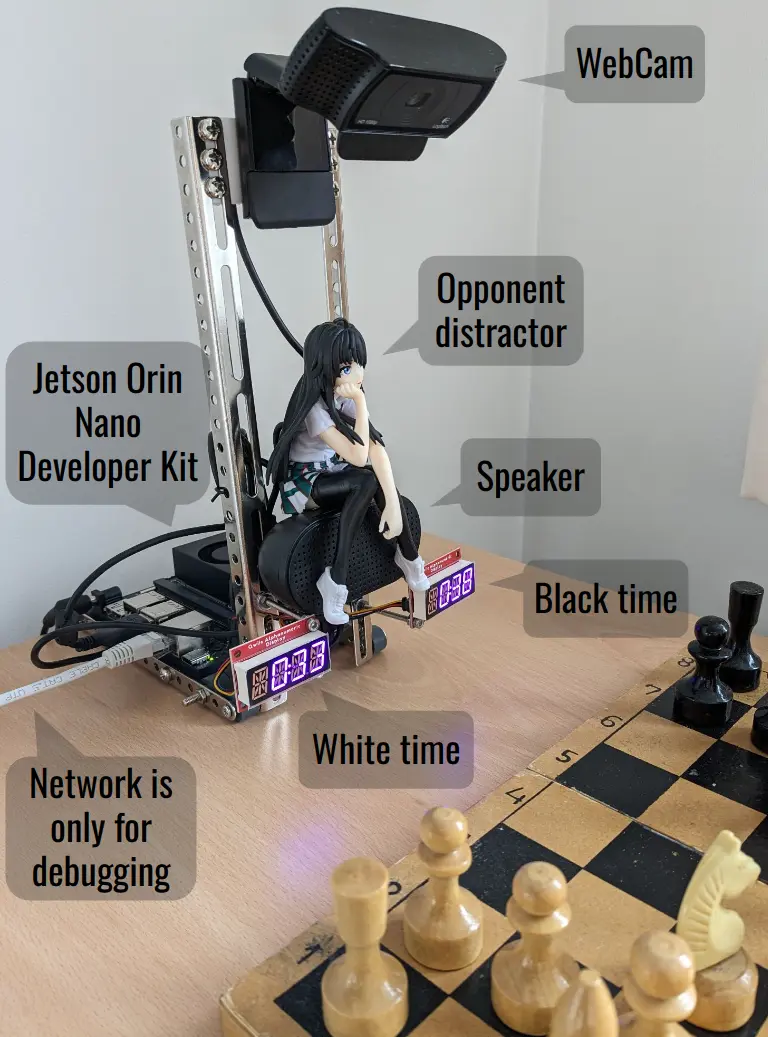
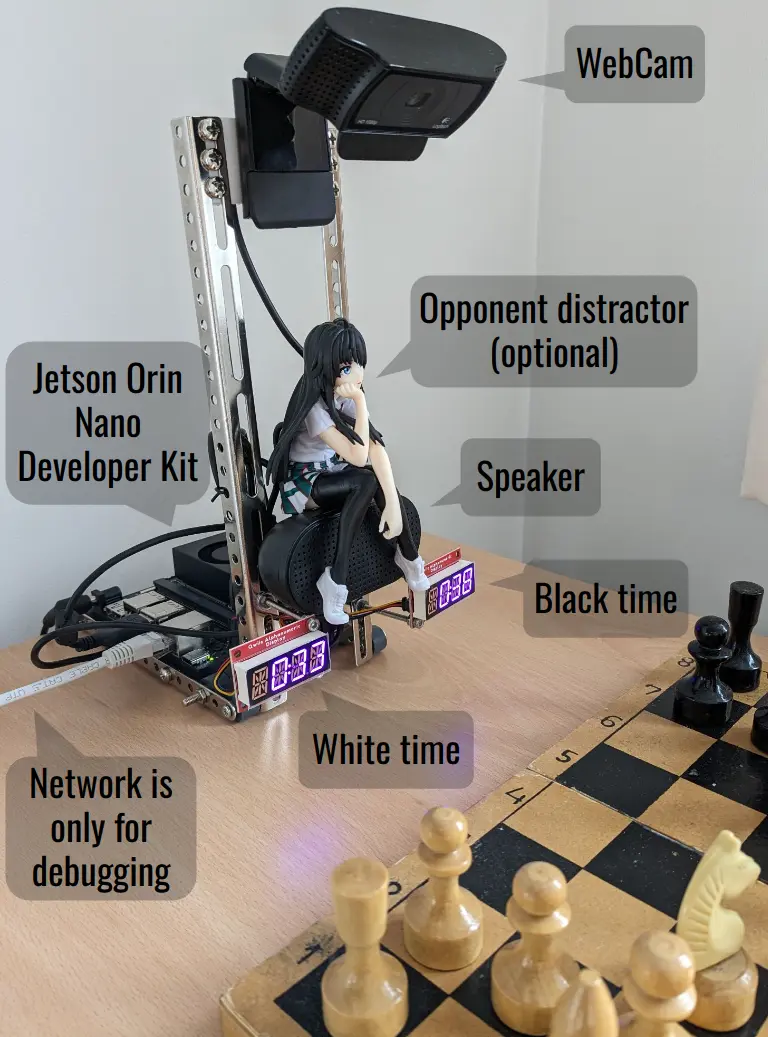
docs: list components

Changed region(s): [[0.5, 0.2469, 0.9062, 0.3703]]

diff --git a/README.md b/README.md
@@ -11,7 +11,14 @@ running by watching a game using the camera.
 
 ![Hands Free Chess Clock](clock.webp)
 
-Main components used to build clock are listed in [AI Innovation Challenge](https://www.hackster.io/contests/SparkFun-NVIDIA-AI-Innovation-Challenge) contest page.
+Components:
+* [NVIDIA Jetson Orin Nano Developer Kit](https://marketplace.nvidia.com/en-us/robotics-edge/)
+* [SparkFun Qwiic Alphanumeric Display - Purple](https://www.sparkfun.com/products/16918)
+* [SparkFun Qwiic Cable - 100mm](https://www.sparkfun.com/products/14427)
+* [Logitech C920 HD WebCam](https://www.logitech.com/en-gb/products/webcams/c920-pro-hd-webcam.960-001055.html)
+* [Mini External USB Stereo Speaker](https://www.sparkfun.com/products/18343)
+* Frame is made mostly from [eitech](https://www.eitech.de/) construction set parts, rubber feet are from old printer rollers, camera mounting plate is 3D printed
+
 
 ## Project goals
 
